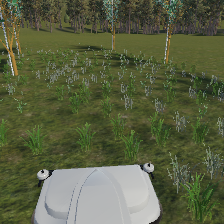
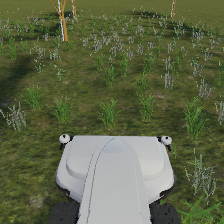
撮影時、colorカメラとtagカメラの位置がずれるバグの修正

diff --git a/Unity/ReaperRobot/Assets/Scipts/Utility/PictureTaker.cs b/Unity/ReaperRobot/Assets/Scipts/Utility/PictureTaker.cs
@@ -8,7 +8,6 @@ namespace smart3tene
     public class PictureTaker : MonoBehaviour
     {
         #region Private Fields
-        [SerializeField, Tooltip("拡張子は付けないでください")] private string _fileName = "picture";
         [SerializeField] private Camera _colorCamera;
         [SerializeField] private Camera _tagCamera;
         #endregion
@@ -30,11 +29,12 @@ namespace smart3tene
         #endregion
 
         #region Public method
-        public async UniTaskVoid TakeColorPicture(Camera camera, string directory = null)
+        public async UniTaskVoid TakeColorPicture(Camera camera, string fileName = "" , string directory = "")
         {
-            if (directory == null) directory = Application.streamingAssetsPath + "/Picture";
+            if (fileName == "") fileName = "picture";
+            if (directory == "") directory = Application.streamingAssetsPath + "/Picture";
 
-            var filePath = $"{directory}/{_fileName}_color.png";
+            var filePath = $"{directory}/{fileName}_color.png";
             filePath = NumberingFileName(filePath);
 
             //指定されたカメラと同じ位置に撮影用カメラを移動させる
@@ -47,11 +47,12 @@ namespace smart3tene
             Debug.Log($"{filePath} にファイルを保存しました。");
         }
 
-        public async UniTaskVoid TakeTagPicture(Camera camera, string directory = null)
+        public async UniTaskVoid TakeTagPicture(Camera camera, string fileName = "" , string directory = "")
         {
-            if (directory == null) directory = Application.streamingAssetsPath + "/Picture";
+            if (fileName == "") fileName = "picture";
+            if (directory == "") directory = Application.streamingAssetsPath + "/Picture";
 
-            var filePath = $"{directory}/{_fileName}_tag.png";
+            var filePath = $"{directory}/{fileName}_tag.png";
             filePath = NumberingFileName(filePath);
 
             //指定されたカメラと同じ位置に撮影用カメラを移動させる

diff --git a/Unity/ReaperRobot/Assets/Scipts/ReaperGame/PictureController.cs b/Unity/ReaperRobot/Assets/Scipts/ReaperGame/PictureController.cs
@@ -11,6 +11,7 @@ namespace smart3tene.Reaper
     {
         #region Private Fields
         [SerializeField] private GUIManager _GuiManager;
+        [SerializeField] private string _fileName = "";
         private PictureTaker _pictureTaker;        
         #endregion
 
@@ -24,9 +25,9 @@ namespace smart3tene.Reaper
         {
             if (Input.GetKeyDown(KeyCode.Z))
             {
-                _ = _pictureTaker.TakeColorPicture(_GuiManager.NowUsingCamera);
+                _ = _pictureTaker.TakeColorPicture(_GuiManager.NowUsingCamera, _fileName);
 
-                _ = _pictureTaker.TakeTagPicture(_GuiManager.NowUsingCamera);
+                _ = _pictureTaker.TakeTagPicture(_GuiManager.NowUsingCamera, _fileName);
             }
         }
         #endregion
